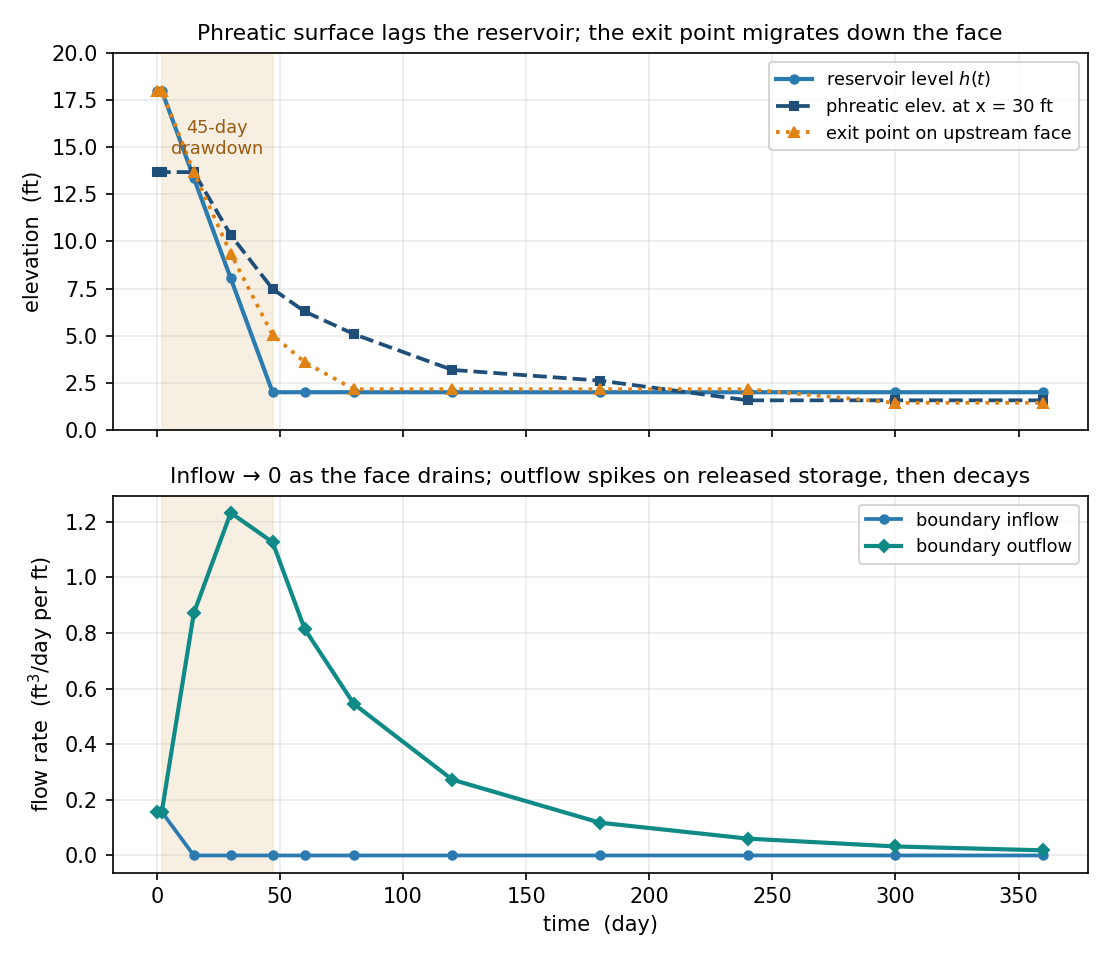
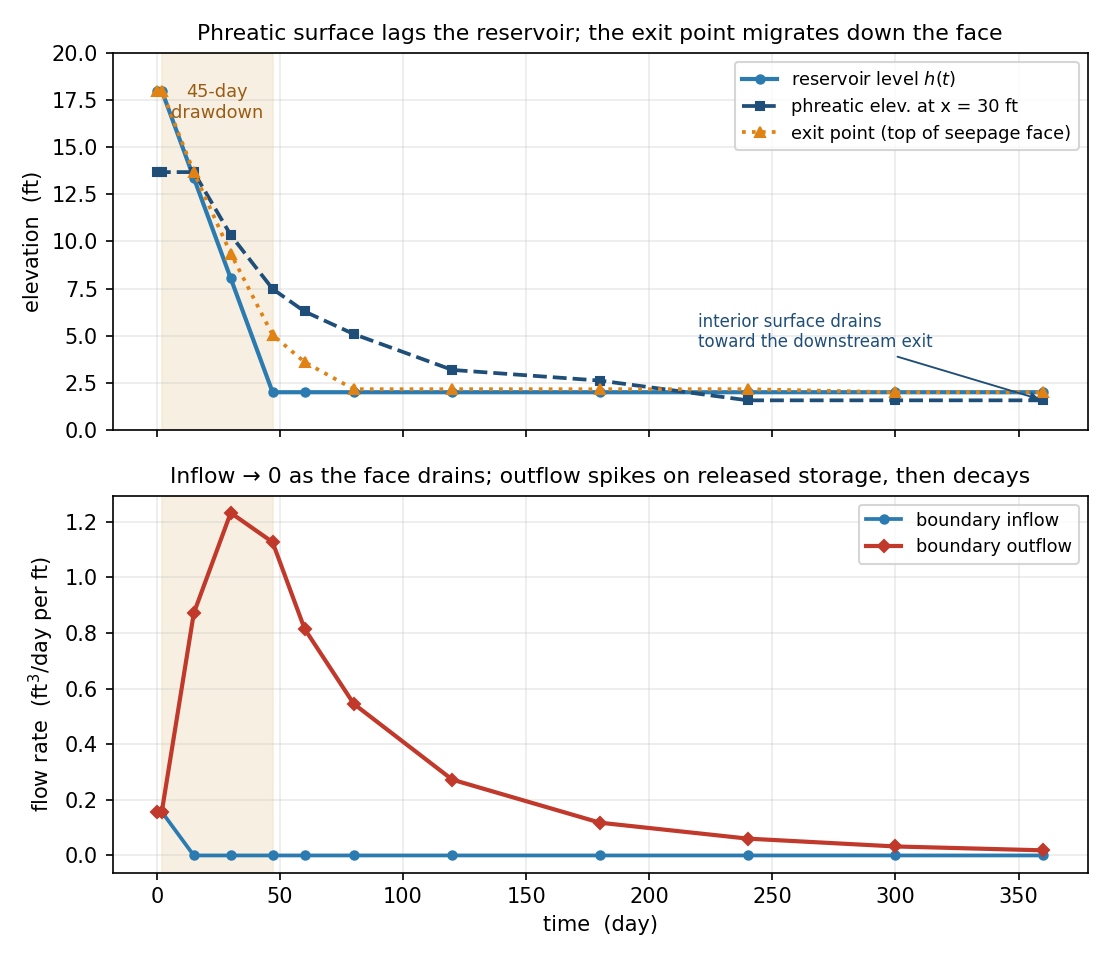
fig(tseep): fix history top-panel exit-point artifact; contrast flow colors
The "exit point on upstream face" trace reported the highest saturated face
node over the whole band, so at quasi-equilibrium it read a mesh node BELOW
the drawn-down pool -- an artifact, since below the waterline the face is
submerged (held at reservoir head) and nothing seeps. It now reports the top
of the upstream SEEPAGE face (the highest exposed, above-pool, still-draining
node) and CLAMPS to the pool waterline once upstream seeping stops, so the
end-state reads sensibly. The interior phreatic station can legitimately settle
a little below the drawn-down pool (the water table slopes from the low pool
toward the downstream exit); a data-driven annotation flags that where it
happens so the trace is not misread. Flow panel: outflow recolored to a
contrasting dark red so it is unmistakable against the blue inflow. Also adds a
fig_inputs() generator (used by the next commit's inputs figures). Both
history figures regenerated.

Claude-Session: https://claude.ai/code/session_0147GB4LGVZuqGHCRMVzZTsR

diff --git a/tools/make_earth_dam_tseep_figures.py b/tools/make_earth_dam_tseep_figures.py
@@ -19,12 +19,33 @@ One deterministic script serves both transient samples — each is solved once
                          defined and the panel is zones + contours + phreatic only
                          -- the instantaneous-flow-net caveat on the transient page.
   <sample>_history.png   Two stacked history plots: (top) reservoir level, the
-                         phreatic elevation at an upstream station, and the
+                         phreatic elevation at an interior station, and the
                          upstream-face exit point vs time -- the phreatic lag and
                          exit-point migration; (bottom) boundary inflow vs outflow
                          -- inflow falls to zero as the face drains while outflow
                          spikes on the released storage and decays toward the
-                         drained steady state.
+                         drained steady state. Inflow is blue, outflow a
+                         contrasting dark red so the two are unmistakable.
+
+                         The "exit point on upstream face" trace reports the top of
+                         the upstream SEEPAGE face -- the highest still-draining
+                         (saturated) point ABOVE the current pool. Once the pool
+                         stabilises and the interior drains, no exposed face node
+                         seeps, so the trace CLAMPS to the pool waterline: below the
+                         line the face is submerged (held at reservoir head) and
+                         nothing exits, so no exit point exists there. The interior
+                         phreatic station can legitimately settle a little BELOW the
+                         drawn-down pool -- at quasi-equilibrium the water table is a
+                         through-flow surface sloping from the low pool toward the
+                         downstream exit -- and the panel annotates that where it
+                         happens so the trace does not read as an error.
+  <sample>_inputs.png    The plot_inputs() view of the model: geometry, material
+                         zones, and the seep boundary conditions with the v18
+                         reservoir symbology -- the submerged-only reservoir face is
+                         drawn distinctly from a fixed-head boundary, and its
+                         schedule shows as two waterlines (the full-pool level at
+                         t = 0 and the drawn-down level at t = end), each with the
+                         standard apex-down water symbol.
 
 The flow-net panels are rendered one-per-figure through the unchanged
 ``plot_seep_solution`` (so they inherit the repo frame conventions) and stacked
@@ -168,6 +189,28 @@ def fig_flownet(cfg, sd, seep, sol):
     print("wrote", os.path.relpath(path, REPO_ROOT))
 
 
+def fig_inputs(cfg, sd):
+    """Render the plot_inputs() seep view to <stem>_inputs.png.
+
+    Showcases the v18 BC symbology: the submerged-only ``reservoir`` face is drawn
+    distinctly from a fixed-head boundary, and because its level is a tseep series
+    the reservoir surface is shown as two waterlines -- the full-pool level at
+    t = 0 and the drawn-down level at t = end -- each with the standard apex-down
+    water symbol. Geometry only (no mesh), so the boundary conditions read clearly.
+    """
+    from xslope.plot import plot_inputs
+    xs = [x for x, _ in sd["ground_surface"].coords]
+    ys = [y for _, y in sd["ground_surface"].coords]
+    aspect = (max(ys) - min(ys)) / (max(xs) - min(xs))
+    fig = plt.figure(figsize=(10.0, max(3.2, 10.0 * aspect + 2.0)))
+    _quiet(plot_inputs, sd, fig=fig, mode="seep", show_title=False,
+           show_legend=True, frame="content", pad_frac=0.04)
+    path = os.path.join(IMG, f"{cfg['stem']}_inputs.png")
+    fig.savefig(path, dpi=150, bbox_inches="tight")
+    plt.close(fig)
+    print("wrote", os.path.relpath(path, REPO_ROOT))
+
+
 def fig_history(cfg, sd, seep, sol):
     nodes = seep["nodes"]
     frames = sol["frames"]
@@ -183,11 +226,26 @@ def fig_history(cfg, sd, seep, sol):
         sat = idx[head[idx] - nodes[idx, 1] >= -0.1]
         return float(np.max(nodes[sat, 1])) if sat.size else np.nan
 
+    def _exit_point(mask, head, pool_level):
+        """Top of the upstream SEEPAGE face: the highest exposed (above-pool)
+        face node that is still saturated (pressure head >= 0), i.e. still
+        draining. Once the reservoir stabilises and the interior drains, no
+        exposed face node seeps, so the diagnostic CLAMPS to the pool waterline
+        -- below the line the face is submerged (held at reservoir head) and
+        nothing exits, so reporting a point there would be an artifact."""
+        idx = np.where(mask)[0]
+        exposed = idx[nodes[idx, 1] > pool_level + 1e-6]
+        seeping = exposed[head[exposed] - nodes[exposed, 1] >= -0.1]
+        if seeping.size:
+            return max(pool_level, float(np.max(nodes[seeping, 1])))
+        return pool_level
+
     col = np.abs(nodes[:, 0] - station_x) < cfg["station_halfwidth"]
     face = (np.abs(nodes[:, 0] - cfg["face"](nodes[:, 1])) < cfg["face_tol"]) & \
            (nodes[:, 1] >= lo) & (nodes[:, 1] <= hi)
     phr = np.array([_saturated_top(col, f["head"]) for f in frames])
-    exitpt = np.array([_saturated_top(face, f["head"]) for f in frames])
+    exitpt = np.array([_exit_point(face, f["head"], pool[i])
+                       for i, f in enumerate(frames)])
 
     d0, d1 = cfg["drawdown"]
     fig, (ax1, ax2) = plt.subplots(2, 1, figsize=(7.4, 6.4), sharex=True)
@@ -197,7 +255,17 @@ def fig_history(cfg, sd, seep, sol):
     ax1.plot(t, phr, "--", color="#1f4e79", lw=1.8, marker="s", ms=4,
              label=f"phreatic elev. at x = {station_x:g} ft")
     ax1.plot(t, exitpt, ":", color="#e08214", lw=1.8, marker="^", ms=5,
-             label="exit point on upstream face")
+             label="exit point (top of seepage face)")
+    # The interior phreatic station can settle a little BELOW the drawn-down pool:
+    # at quasi-equilibrium the water table is a through-flow surface sloping from
+    # the (low) pool toward the downstream exit, so an interior column drains below
+    # the upstream level. Annotate it where it happens so the trace is not misread.
+    if np.isfinite(phr[-1]) and phr[-1] < pool[-1] - 0.15:
+        ax1.annotate("interior surface drains\ntoward the downstream exit",
+                     xy=(t[-1], phr[-1]), xytext=(0.60, 0.26),
+                     textcoords="axes fraction", fontsize=8.0, color="#1f4e79",
+                     ha="left", va="center",
+                     arrowprops=dict(arrowstyle="-|>", color="#1f4e79", lw=0.9))
     ax1.axvspan(d0, d1, color="#f2e6cf", alpha=0.6, zorder=0)
     ax1.annotate("45-day\ndrawdown", xy=(0.5 * (d0 + d1),
                  cfg["elev_lim"][0] + 0.92 * (cfg["elev_lim"][1] - cfg["elev_lim"][0])),
@@ -211,7 +279,7 @@ def fig_history(cfg, sd, seep, sol):
 
     ax2.plot(t, inflow, "-", color="#2b7bb0", lw=1.8, marker="o", ms=4,
              label="boundary inflow")
-    ax2.plot(t, outflow, "-", color="#0f8a86", lw=2.0, marker="D", ms=4,
+    ax2.plot(t, outflow, "-", color="#c0392b", lw=2.0, marker="D", ms=4,
              label="boundary outflow")
     ax2.axvspan(d0, d1, color="#f2e6cf", alpha=0.6, zorder=0)
     ax2.set_xlabel("time  (day)")
@@ -236,6 +304,7 @@ def main(argv):
         sd, seep, sol = _solve(cfg)
         print(f"  {len(seep['nodes'])} nodes, {len(sol['frames'])} saved frames, "
               f"converged={sol['converged']}")
+        fig_inputs(cfg, sd)
         fig_flownet(cfg, sd, seep, sol)
         fig_history(cfg, sd, seep, sol)
     print("done")
